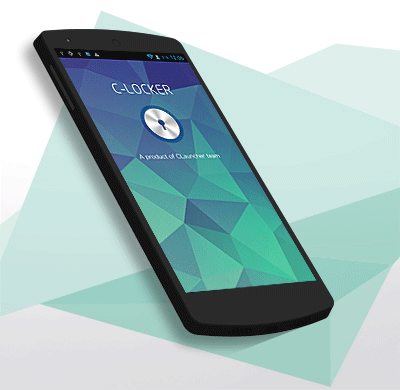
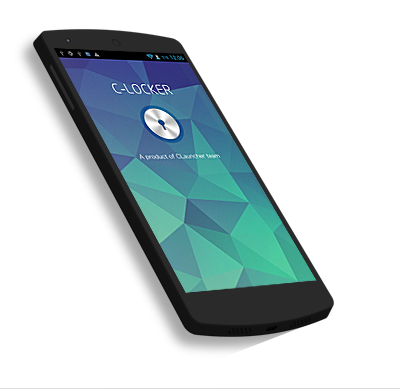
change head pic

diff --git a/css/index.css b/css/index.css
@@ -1,1 +1,1 @@
-@font-face{font-family:hncn;src:url(HelveticaNeueLTPro-XBlkCn.otf)}@font-face{font-family:hnex;src:url(HelveticaNeueLTPro-UltLtEx.otf)}html{width:100%;height:100%;overflow:auto;overflow-x:hidden}body{width:100%}a,a:hover{text-decoration:none}.bd{position:relative;min-height:100%;height:auto!important;height:100%;margin:0 auto;z-index:999;background:#fff url(../img/second/head.jpg) center top no-repeat}.hd{height:533px;background:url(../img/second/btn-bg.png) left bottom repeat-x}.hd .topBar{width:1000px;height:54px;margin:0 auto;padding-top:28px}.hd .topBar .logo,.hd .topBar .logo:hover{display:block;float:left;width:87px;height:54px;line-height:54px;margin-left:41px;padding-left:47px;color:#555;font-family:Arial;font-size:26px;font-weight:400;letter-spacing:.5px;text-indent:13px;background:#fff url(../img/second/logo-icon.png) left top no-repeat}.hd .topBar .menus{float:right}.hd .topBar .menus a{display:block;float:left;width:65px;height:24px;line-height:24px;margin:15px 18px;color:#555;text-align:center;font-family:Arial;font-size:18px;font-weight:300}.hd .topBar .menus a:hover{color:#FFF;background:#2ba28d}.hd .container{width:1000px;height:450px;margin:0 auto}.hd .container .btnBg{height:405px}.hd .container .btnBg .topPic{height:390px;margin:0}.hd .container .btnBg .topPic li{width:1000px;height:390px;margin:0 auto}.hd .container .btnBg .topPic li .img{float:left;width:400px;height:390px;background:url(../img/second/phone1.png) 0 0 no-repeat}.hd .container .btnBg .topPic li .describ{float:right;margin:50px 80px 0 0;text-align:right}.hd .container .btnBg .topPic li .describ h3,.hd .container .btnBg .topPic li .describ p{height:66px;line-height:66px;font-family:Arial;letter-spacing:.5px;color:#555}.hd .container .btnBg .topPic li .describ h3{font-size:50px;letter-spacing:0}.hd .container .btnBg .topPic li .describ p{height:33px;font-size:18px}.hd .container .btnBg .topPic li.cLauncher .img{background:url(../img/second/phone1.png) 0 0 no-repeat}.hd .container .btnBg .topPic li.optimization .img{background:url(../img/second/phone2.png) 0 0 no-repeat}.hd .container .btnBg .topPic li.cLocker .img{background:url(../img/second/phone3.png) 0 0 no-repeat}.hd .container .btnBg .topPic li.battery .img{background:url(../img/second/phone4.png) 0 0 no-repeat}.hd .container .btnBg a{position:absolute;right:80px;bottom:75px;width:200px;height:66px;line-height:68px;color:#fff;background:#2ba28d;font-family:Arial;font-size:26px;letter-spacing:.5px;text-align:center}.hd .container .btnHandle{width:1000px;height:45px;margin:0 auto}.hd .container .btnHandle a{float:left;width:248px;height:45px;line-height:45px;margin:0 auto;color:#1f1f1f;border-left:#65e5cf solid 1px;border-right:#247768 solid 1px;text-align:center;font-family:Arial;font-size:18px;font-weight:300}.hd .container .btnHandle a.crt{color:#FFF;background:#fff url(../img/second/crt-bg.png) center top no-repeat}.main{height:555px;padding-bottom:100px}.main .list{width:1000px;margin:0 auto}.main .list li{float:left;width:500px;height:96px;margin:0 auto;padding:44px 0}.main .list li .imgbox{float:left;width:96px;height:96px;margin-left:44px;background:url(../img/second/icon-main.png) 0 0 no-repeat}.main .list li .describ{float:left;width:338px;margin-left:22px}.main .list li .describ h3,.main .list li .describ p{height:32px;line-height:32px;font-family:Arial;letter-spacing:.5px}.main .list li .describ h3{color:#1a9882;font-size:20px}.main .list li .describ p{color:#555;font-size:16px}.main .list li .describ a{display:block;width:93px;height:24px;line-height:24px;color:#fff;background:#2ba28d;font-size:14px;text-align:center}.main .list li.cLauncher .imgbox{background:url(../img/second/icon-main.png) 0 0 no-repeat}.main .list li.battery .imgbox{background:url(../img/second/icon-main.png) 0 -100px no-repeat}.main .list li.optimization .imgbox{background:url(../img/second/icon-main.png) 0 -300px no-repeat}.main .list li.cLocker .imgbox{background:url(../img/second/icon-main.png) 0 -200px no-repeat}.main .list li.ctorch .imgbox{background:url(../img/second/icon-main.png) 0 -400px no-repeat}.footer{position:absolute;bottom:0;width:100%;height:20px;line-height:20px;padding:60px 0 20px;border-top:#ddd solid 1px;text-align:center;color:#555;clear:both}.transparent{opacity:0}.hide{display:none}.absolute{position:absolute}.text-center{text-align:center}.text-right{text-align:right}.text-left{text-align:left}
+@font-face{font-family:hncn;src:url(HelveticaNeueLTPro-XBlkCn.otf)}@font-face{font-family:hnex;src:url(HelveticaNeueLTPro-UltLtEx.otf)}html{width:100%;height:100%;overflow:auto;overflow-x:hidden}body{width:100%}a,a:hover{text-decoration:none}.bd{position:relative;min-height:100%;height:auto!important;height:100%;margin:0 auto;z-index:999;background:#fff url(../img/second/head.png) center top no-repeat}.hd{height:533px;background:url(../img/second/btn-bg.png) left bottom repeat-x}.hd .topBar{width:1000px;height:54px;margin:0 auto;padding-top:28px}.hd .topBar .logo,.hd .topBar .logo:hover{display:block;float:left;width:87px;height:54px;line-height:54px;margin-left:41px;padding-left:47px;color:#555;font-family:Arial;font-size:26px;font-weight:400;letter-spacing:.5px;text-indent:13px;background:#fff url(../img/second/logo-icon.png) left top no-repeat}.hd .topBar .menus{float:right}.hd .topBar .menus a{display:block;float:left;width:65px;height:24px;line-height:24px;margin:15px 18px;color:#555;text-align:center;font-family:Arial;font-size:18px;font-weight:300}.hd .topBar .menus a:hover{color:#FFF;background:#2ba28d}.hd .container{width:1000px;height:450px;margin:0 auto}.hd .container .btnBg{position:relative;height:405px}.hd .container .btnBg .topPic{height:390px;margin:0}.hd .container .btnBg .topPic li{width:1000px;height:390px;margin:0 auto}.hd .container .btnBg .topPic li .img{float:left;width:400px;height:390px;background:url(../img/second/phone1.png) 0 0 no-repeat}.hd .container .btnBg .topPic li .describ{float:right;margin:50px 80px 0 0;text-align:right}.hd .container .btnBg .topPic li .describ h3,.hd .container .btnBg .topPic li .describ p{height:66px;line-height:66px;font-family:Arial;letter-spacing:.5px;color:#555}.hd .container .btnBg .topPic li .describ h3{font-size:50px;letter-spacing:0}.hd .container .btnBg .topPic li .describ p{height:33px;font-size:18px}.hd .container .btnBg .topPic li.cLauncher .img{background:url(../img/second/phone1.png) 0 0 no-repeat}.hd .container .btnBg .topPic li.optimization .img{background:url(../img/second/phone2.png) 0 0 no-repeat}.hd .container .btnBg .topPic li.cLocker .img{background:url(../img/second/phone3.png) 0 0 no-repeat}.hd .container .btnBg .topPic li.battery .img{background:url(../img/second/phone4.png) 0 0 no-repeat}.hd .container .btnBg a{position:absolute;right:80px;bottom:75px;width:200px;height:66px;line-height:68px;color:#fff;background:#2ba28d;font-family:Arial;font-size:26px;letter-spacing:.5px;text-align:center}.hd .container .btnHandle{width:1000px;height:45px;margin:0 auto}.hd .container .btnHandle a{float:left;width:248px;height:45px;line-height:45px;margin:0 auto;color:#1f1f1f;border-left:#65e5cf solid 1px;border-right:#247768 solid 1px;text-align:center;font-family:Arial;font-size:18px;font-weight:300}.hd .container .btnHandle a.crt{color:#FFF;background:#fff url(../img/second/crt-bg.png) center top no-repeat}.main{height:555px;padding-bottom:100px}.main .list{width:1000px;margin:0 auto}.main .list li{float:left;width:500px;height:96px;margin:0 auto;padding:44px 0}.main .list li .imgbox{float:left;width:96px;height:96px;margin-left:44px;background:url(../img/second/icon-main.png) 0 0 no-repeat}.main .list li .describ{float:left;width:338px;margin-left:22px}.main .list li .describ h3,.main .list li .describ p{height:32px;line-height:32px;font-family:Arial;letter-spacing:.5px}.main .list li .describ h3{color:#1a9882;font-size:20px}.main .list li .describ p{color:#555;font-size:16px}.main .list li .describ a{display:block;width:93px;height:24px;line-height:24px;color:#fff;background:#2ba28d;font-size:14px;text-align:center}.main .list li.cLauncher .imgbox{background:url(../img/second/icon-main.png) 0 0 no-repeat}.main .list li.battery .imgbox{background:url(../img/second/icon-main.png) 0 -100px no-repeat}.main .list li.optimization .imgbox{background:url(../img/second/icon-main.png) 0 -300px no-repeat}.main .list li.cLocker .imgbox{background:url(../img/second/icon-main.png) 0 -200px no-repeat}.main .list li.ctorch .imgbox{background:url(../img/second/icon-main.png) 0 -400px no-repeat}.footer{position:absolute;bottom:0;width:100%;height:20px;line-height:20px;padding:50px 0 30px;border-top:#ddd solid 1px;text-align:center;color:#555;clear:both;font-family:Arial}.transparent{opacity:0}.hide{display:none}.absolute{position:absolute}.text-center{text-align:center}.text-right{text-align:right}.text-left{text-align:left}

diff --git a/css/404.css b/css/404.css
@@ -1,1 +1,1 @@
-@font-face{font-family:hncn;src:url(HelveticaNeueLTPro-XBlkCn.otf)}@font-face{font-family:hnex;src:url(HelveticaNeueLTPro-UltLtEx.otf)}html{width:100%;height:100%;overflow:hidden}body{width:100%}a,a:hover{text-decoration:none}.bd{position:relative;min-height:100%;height:auto!important;height:100%;margin:0 auto;z-index:999}.hd{width:1000px;margin:0 auto;padding-bottom:100px;background-color:#fff;z-index:999}.topBar{height:54px;padding-top:28px;background:#fff url(../img/second/topBar.png) center top no-repeat}.topBar .logo,.topBar .logo:hover{display:block;float:left;width:177px;height:54px;line-height:54px;margin-left:41px;padding-left:47px;color:#555;font-family:Arial;font-size:26px;font-weight:400;letter-spacing:.5px;text-indent:13px;background:#fff url(../img/second/logo-icon.png) left top no-repeat}.topBar .menus{float:right}.topBar .menus a{display:block;float:left;width:65px;height:24px;line-height:24px;margin:15px 18px;color:#555;text-align:center;font-family:Arial;font-size:18px;font-weight:300}.topBar .menus a:hover{color:#FFF;background:#2ba28d}.container{height:677px;padding-bottom:100px;background:#fff url(../img/second/main.jpg) 153px top no-repeat}.container .menus{float:right;width:215px;margin:475px 215px 0 0;line-height:24px;color:#1A9882;font-family:'';font-size:16px;font-weight:700}.container .menus a{height:24px;line-height:24px;margin:0 10px;color:red}.footer{position:absolute;bottom:0;width:100%;height:20px;line-height:20px;padding:60px 0 20px;border-top:#ddd solid 1px;text-align:center;color:#555;clear:both}.transparent{opacity:0}.hide{display:none}.absolute{position:absolute}.text-center{text-align:center}.text-right{text-align:right}.text-left{text-align:left}
+@font-face{font-family:hncn;src:url(HelveticaNeueLTPro-XBlkCn.otf)}@font-face{font-family:hnex;src:url(HelveticaNeueLTPro-UltLtEx.otf)}html{width:100%;height:100%;overflow:hidden}body{width:100%}a,a:hover{text-decoration:none}.bd{position:relative;min-height:100%;height:auto!important;height:100%;margin:0 auto;z-index:999}.hd{width:1000px;margin:0 auto;padding-bottom:100px;background-color:#fff;z-index:999}.topBar{height:54px;padding-top:28px;background:#fff url(../img/second/topBar.png) center top no-repeat}.topBar .logo,.topBar .logo:hover{display:block;float:left;width:177px;height:54px;line-height:54px;margin-left:41px;padding-left:47px;color:#555;font-family:Arial;font-size:26px;font-weight:400;letter-spacing:.5px;text-indent:13px;background:#fff url(../img/second/logo-icon.png) left top no-repeat}.topBar .menus{float:right}.topBar .menus a{display:block;float:left;width:65px;height:24px;line-height:24px;margin:15px 18px;color:#555;text-align:center;font-family:Arial;font-size:18px;font-weight:300}.topBar .menus a:hover{color:#FFF;background:#2ba28d}.container{height:677px;padding-bottom:100px;background:#fff url(../img/second/main.jpg) 153px top no-repeat}.container .menus{float:right;width:215px;margin:475px 215px 0 0;line-height:24px;color:#1A9882;font-family:'';font-size:16px;font-weight:700}.container .menus a{height:24px;line-height:24px;margin:0 10px;color:red}.footer{position:absolute;bottom:0;width:100%;height:20px;line-height:20px;padding:50px 0 30px;border-top:#ddd solid 1px;text-align:center;color:#555;clear:both;font-family:Arial}.transparent{opacity:0}.hide{display:none}.absolute{position:absolute}.text-center{text-align:center}.text-right{text-align:right}.text-left{text-align:left}

diff --git a/index.html b/index.html
@@ -33,37 +33,37 @@
 								<p>Wonderful your Android Phone</p>
 								<p>Version 2.0 Update 2014-1-25 For android 4.0+</p>
 							</div>
-							<a href="http://bbs.c-launcher.com/download/clauncher_1.1.0.2249.apk">DOWNLOAD</a>
+							<!-- <a href="http://bbs.c-launcher.com/download/clauncher_1.1.0.2249.apk">DOWNLOAD</a> -->
 						</li>
-						<li class="optimization">
+						<li class="optimization" style="display: none">
 							<div class="img"></div>
 							<div class="describ">
 								<h3>Optimization doctor</h3>
 								<p>Standby time extend more than 50%</p>
 								<p>Version 2.0 Update 2014-1-25 For android 4.0+</p>
 							</div>
-							<a href="http://bbs.c-launcher.com/download/clauncher_1.1.0.2249.apk">DOWNLOAD</a>
+							<!-- <a href="http://bbs.c-launcher.com/download/clauncher_1.1.0.2249.apk">DOWNLOAD</a> -->
 						</li>
-						<li class="cLocker">
+						<li class="cLocker" style="display: none">
 							<div class="img"></div>
 							<div class="describ">
 								<h3>CLocker</h3>
 								<p>Bring you excellence unlock experience</p>
 								<p>Version 2.0 Update 2014-1-25 For android 4.0+</p>
 							</div>
-							<a href="http://bbs.c-launcher.com/download/clauncher_1.1.0.2249.apk">DOWNLOAD</a>
+							<!-- <a href="http://bbs.c-launcher.com/download/clauncher_1.1.0.2249.apk">DOWNLOAD</a> -->
 						</li>
-						<li class="battery">
+						<li class="battery" style="display: none">
 							<div class="img"></div>
 							<div class="describ">
 								<h3>Battery bodyguard</h3>
 								<p>Standby time extend more than 50%</p>
 								<p>Version 2.0 Update 2014-1-25 For android 4.0+</p>
 							</div>
-							<a href="http://bbs.c-launcher.com/download/clauncher_1.1.0.2249.apk">DOWNLOAD</a>
+							<!-- <a href="http://bbs.c-launcher.com/download/clauncher_1.1.0.2249.apk">DOWNLOAD</a> -->
 						</li>
 					</ul>
-					<!-- <a href="http://bbs.c-launcher.com/download/clauncher_1.1.0.2249.apk">DOWNLOAD</a> -->
+					<a href="http://bbs.c-launcher.com/download/clauncher_1.1.0.2249.apk">DOWNLOAD</a>
 				</div>
 				<div class="btnHandle">
 					<a href="javascript:void(0);">CLauncher</a>

diff --git a/less/index.less b/less/index.less
@@ -28,7 +28,7 @@ a, a:hover {
 	height: 100%;
 	margin: 0 auto;
 	z-index: 999;
-	background: white url(../img/second/head.jpg) center top no-repeat;
+	background: white url(../img/second/head.png) center top no-repeat;
 }
 
 .hd {
@@ -81,6 +81,7 @@ a, a:hover {
 		height: 450px;
 		margin: 0 auto;
 		.btnBg {
+			position: relative;
 			height: 405px;
 			.topPic {
 				height: 390px;
@@ -249,7 +250,7 @@ a, a:hover {
 			&.ctorch {
 				.imgbox {
 					background: url(../img/second/icon-main.png) 0 -400px no-repeat;
-				}				
+				}
 			}
 		}
 	}
@@ -261,11 +262,12 @@ a, a:hover {
 	width: 100%;
 	height: 20px;
 	line-height: 20px;
-	padding: 60px 0 20px;
+	padding: 50px 0 30px;
 	border-top: #dddddd solid 1px;
 	text-align: center;
 	color: #555555;
 	clear: both;
+	font-family: 'Arial';
 }
 
 /*utils*/

diff --git a/less/404.less b/less/404.less
@@ -106,11 +106,12 @@ a, a:hover {
 	width: 100%;
 	height: 20px;
 	line-height: 20px;
-	padding: 60px 0 20px;
+	padding: 50px 0 30px;
 	border-top: #dddddd solid 1px;
 	text-align: center;
 	color: #555555;
 	clear: both;
+	font-family: 'Arial';
 }
 
 /*utils*/
